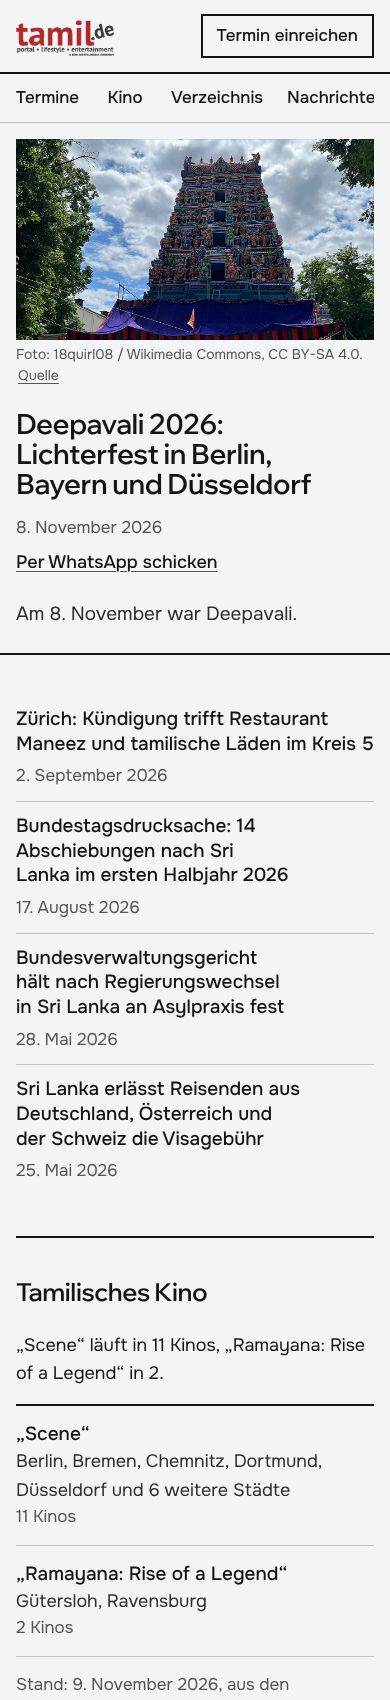
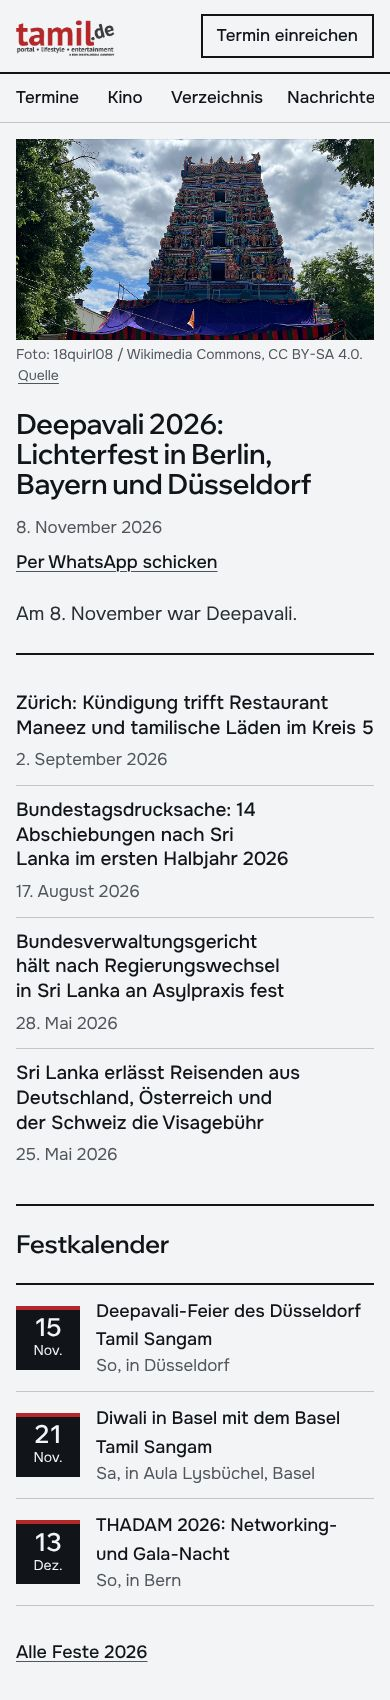
feat(design): Vergleichsseite mit Linie D nach r3
Claude-Session: https://claude.ai/code/session_01VBg2WFSs9tPNRidQXUcJan

Changed region(s): [[0.0308, 0.4053, 0.9538, 0.9976], [0.6769, 0.9665, 0.7385, 0.9976], [0.5846, 0.9665, 0.6462, 0.9976]]

diff --git a/design/vergleich/hallmark.html b/design/vergleich/hallmark.html
@@ -149,7 +149,7 @@ h3 { font-size: 1.25rem; margin-top: 28px; }
 <section><div class="wrap">
   <div class="kopf"><h2>D: Kalenderboden</h2><span>Eigene Richtung</span></div>
   <p class="text">Die Seite ist in Felder ungleicher Breite gelegt, getrennt durch Tintenfugen wie ein Terrazzoboden; der laufende Monat liegt als Fliesenfeld, Festtage sind ausgelegt. Die Farbe kommt nur aus den Fotos.</p>
-  <p class="stand">Die dritte Prüfung läuft noch. Offen bekannt: der Kalenderboden kann wie ein Raster gleicher Felder wirken; die Kopfschrift ist eher neutral.</p>
+  <p class="stand">Drei Prüfrunden; die schweren Befunde (Zeilenlänge, Bildausschnitt, Kalenderboden am Handy, Termine zuerst) sind behoben. Schwächen: am Desktop zeigt der erste Bildschirm nur Aufmacher und Kalender; die Kopfschrift ist eher neutral.</p>
   <div class="bilder">
     <figure><img src="img/hm-terrazzo-index-1280.jpg" alt="D: Kalenderboden: Startseite am Desktop" width="1280" height="800" loading="lazy"><figcaption>Startseite, Desktop</figcaption></figure>
     <figure><img src="img/hm-terrazzo-index-390.jpg" alt="D: Kalenderboden: Startseite am Handy" width="390" height="1700" loading="lazy"><figcaption>Startseite, Handy</figcaption></figure>
